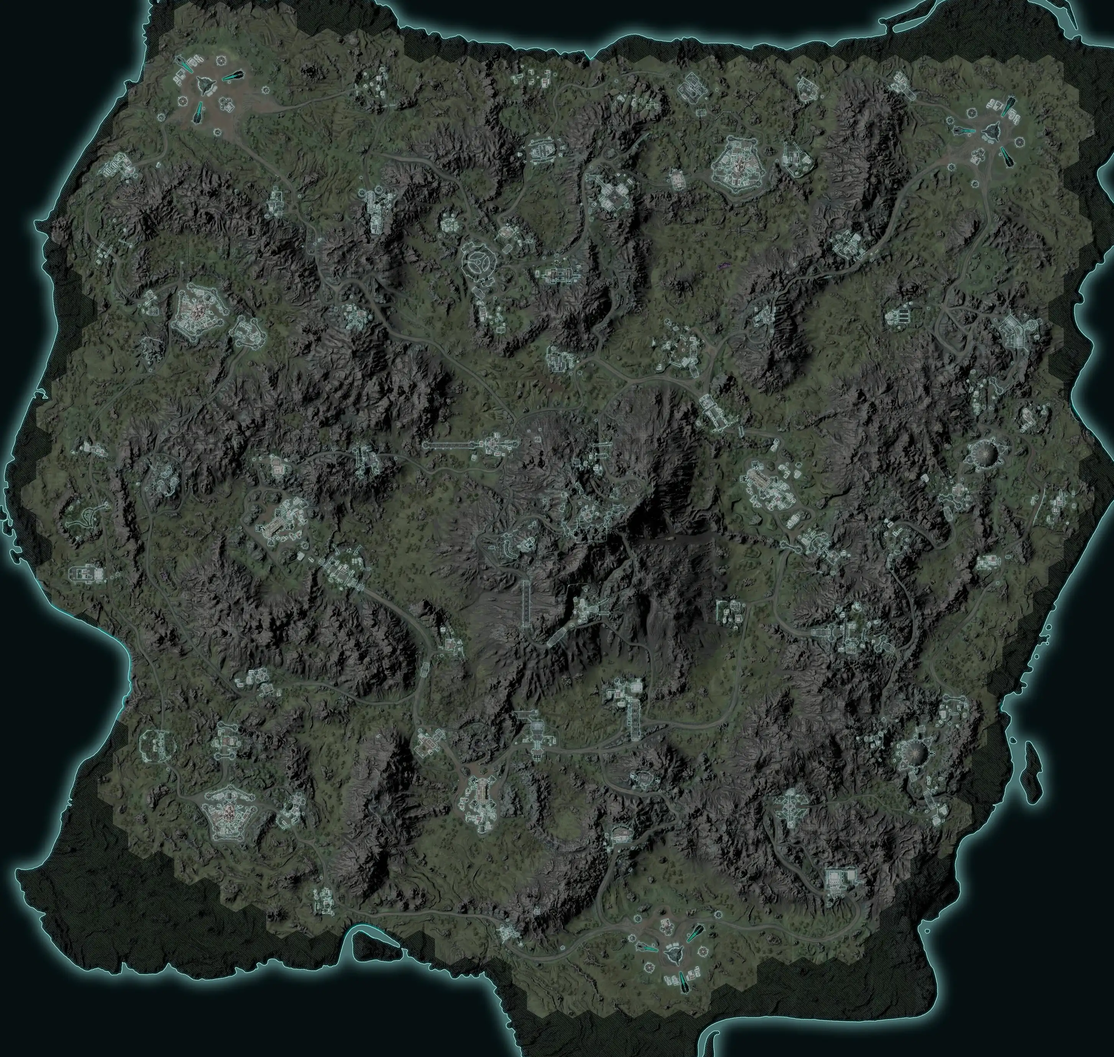
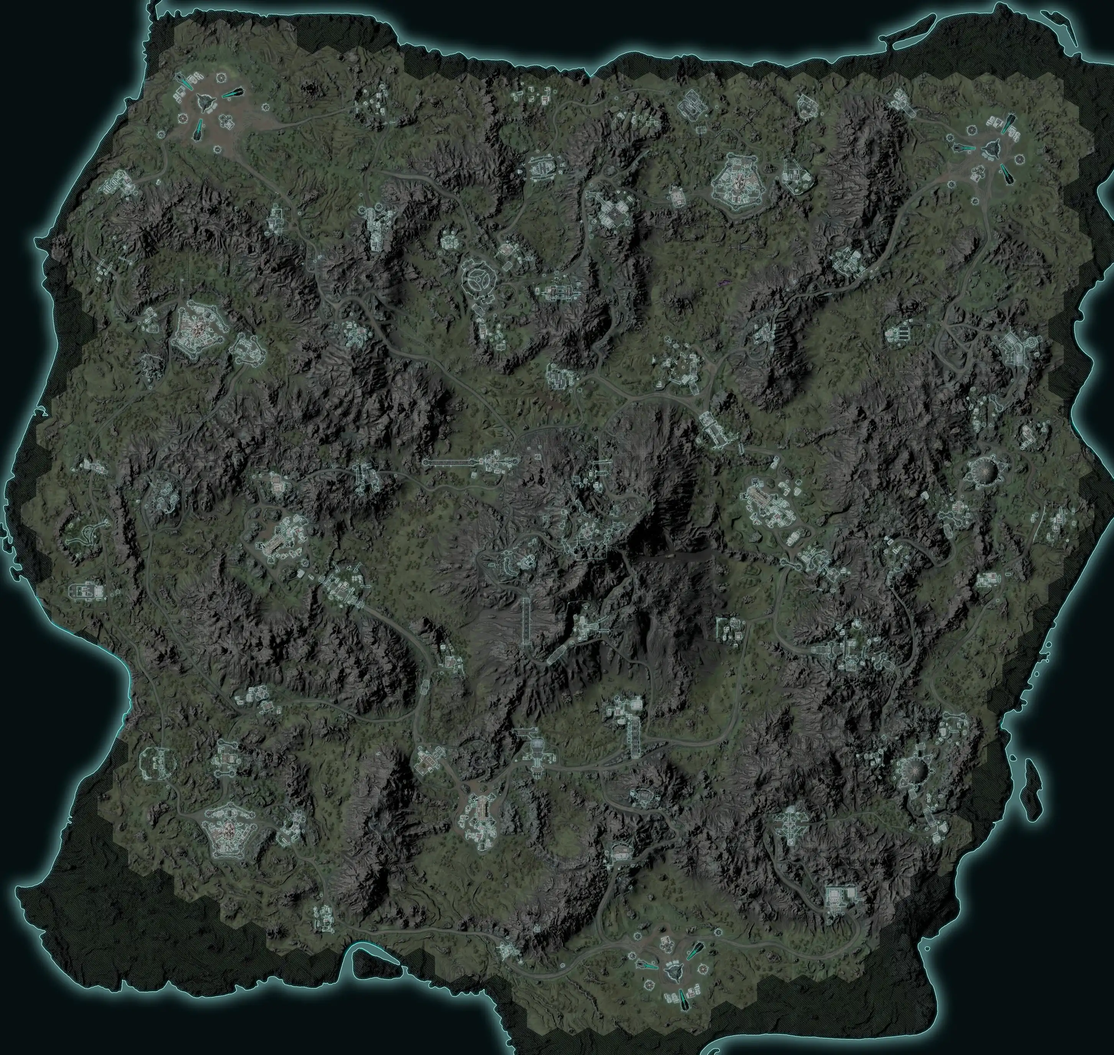
oracle map: move Census-built hexes one radius north so they line up with the wiki terrain (owner 2026-10-28)
Indar, Amerish, Esamir and Oshur hexmaps sat one hex radius (115 m; Oshur 58 m) south of
the game world. Measured against the in-game boundary on the wiki terrain and the bases'
own Census locations; Hossin's replay hexmap already fit. Terrain images re-cropped to the
shifted area, cache tag 20261028-align1.

diff --git a/oracle/js/map.js b/oracle/js/map.js
@@ -11,8 +11,14 @@ export const MAP_IMG_DEFAULT = 0.4;     // terrain image opacity
 export const MAP_COLOR_DEFAULT = 1;     // territory colour opacity
 // zone -> [file in oracle/maps/, [x, y, width, height] in map units]. The wiki images cover the
 // whole world (-4096..4096 on both axes, same orientation as the hexes; checked against the
-// wiki's own base markers); the files are cropped to the hex area at 2.5 m per pixel.
-export const MAPIMG = { 2: ["indar",[-3536,-3360,7072,6720]], 4: ["hossin",[-3920,-3648,7792,7552]], 6: ["amerish",[-3632,-3360,7264,6896]], 8: ["esamir",[-3440,-3008,6784,6368]], 344: ["oshur",[-3776,-3152,7104,6048]] };
+// wiki's own base markers); the files are cropped to the (shifted) hex area at 2.5 m per pixel.
+export const MAPIMG = { 2: ["indar",[-3536,-3472,7072,6720]], 4: ["hossin",[-3920,-3648,7792,7552]], 6: ["amerish",[-3632,-3472,7264,6880]], 8: ["esamir",[-3440,-3120,6784,6368]], 344: ["oshur",[-3776,-3216,7104,6048]] };
+// Hex grid shift in hex radii, per zone (owner 2026-10-28: "BG image is a bit high"). The
+// hexmaps built from Census tiles (build_hexmaps.py) sit one radius south of the real game
+// grid: shifting them up makes their outer edge follow the in-game boundary on the wiki
+// terrain and puts every base's own Census location inside its base (Indar 84 -> 89 of 89,
+// Amerish 78 -> 81 of 81). Hossin's replay hexmap is built differently and already fits.
+export const HEX_SHIFT_R = { 2: -1, 6: -1, 8: -1, 344: -1 };
 const OPA_KEY = { img: "ps2o-map-img", col: "ps2o-map-col" };
 export function mapOpacity(which) {
   const def = which === "img" ? MAP_IMG_DEFAULT : MAP_COLOR_DEFAULT;
@@ -31,21 +37,25 @@ export async function drawMap(a) {
   const links = (await asset(SLUG[a.zone] + "_links.json")) || [];
   const regs = (await asset(SLUG[a.zone] + "_regions.json")) || [];
   const owners = (a.state && a.state.owners) || {};
-  const hx = hm.hexes;
+  const hx0 = hm.hexes;
   // Hex spacing and orientation from the data itself: nearest-neighbour
   // distance d; neighbours straight above/below mean flat-top hexes.
-  const n = Math.min(hx.length, 400);
+  const n = Math.min(hx0.length, 400);
   let d = Infinity;
   for (let i = 0; i < n; i++) for (let j = i + 1; j < n; j++) {
-    const dd = Math.hypot(hx[j][0] - hx[i][0], hx[j][1] - hx[i][1]);
+    const dd = Math.hypot(hx0[j][0] - hx0[i][0], hx0[j][1] - hx0[i][1]);
     if (dd > 1 && dd < d) d = dd;
   }
   let flatTop = false;
   for (let i = 0; i < n && !flatTop; i++) for (let j = i + 1; j < n; j++) {
-    const dx = hx[j][0] - hx[i][0], dy = hx[j][1] - hx[i][1];
+    const dx = hx0[j][0] - hx0[i][0], dy = hx0[j][1] - hx0[i][1];
     if (Math.abs(dx) < 1 && Math.abs(Math.abs(dy) - d) < 1) { flatTop = true; break; }
   }
   const r = d / Math.sqrt(3);
+  // Census hex tiles come out one hex radius too far south (+y) against the game world:
+  // the base locations, the in-game boundary and the wiki terrain all agree on this.
+  const shiftY = (HEX_SHIFT_R[a.zone] || 0) * r;
+  const hx = shiftY ? hx0.map(([x, y, ...rest]) => [x, y + shiftY, ...rest]) : hx0;
   const off = flatTop ? 0 : Math.PI / 6;
   const pts = [...Array(6)].map((_, k) => [r * Math.cos(off + k * Math.PI / 3), r * Math.sin(off + k * Math.PI / 3)]);
   let x0 = Infinity, y0 = Infinity, x1 = -Infinity, y1 = -Infinity;

diff --git a/oracle/index.html b/oracle/index.html
@@ -25,7 +25,7 @@
   } catch (e) {}
 </script>
 <link rel="stylesheet" href="../site-layout.css?v=20261019-graph564" />
-<link rel="stylesheet" href="oracle.css?v=20261027-terrain1" />
+<link rel="stylesheet" href="oracle.css?v=20261028-align1" />
 <style>
   /* Installed-app launch splash (t465u). Android draws its own launch splash first:
      the maskable icon (big medal on black) seen through a 192 px circle, on the
@@ -205,7 +205,7 @@
 </div>
 
 <script type="module" src="js/vote.js?v=20261024-i18n1"></script>
-<script type="module" src="js/main.js?v=20261027-terrain1"></script>
+<script type="module" src="js/main.js?v=20261028-align1"></script>
 <script>
   if ("serviceWorker" in navigator) {
     navigator.serviceWorker.register("../sw.js").catch(function () {});

diff --git a/oracle/js/main.js b/oracle/js/main.js
@@ -1,7 +1,7 @@
 // PS2MapOracle dashboard — split from index.html (#15). No behaviour change.
 import { S, FACS, COLOR, esc, $, stars, mins, bar, pct1, det, info, wide, syncDetails, PHONE_MQ } from "./state.js?v=20261018-scrub2";
 import { get, names } from "./api.js?v=20261018-scrub2";
-import { drawMap, highlightBase, recolorMap } from "./map.js?v=20261027-terrain1";
+import { drawMap, highlightBase, recolorMap } from "./map.js?v=20261028-align1";
 import { chart, chartHover } from "./chart.js?v=20261024-i18n1";
 import { lockCard, lockTick } from "./lock.js?v=20261024-i18n1";
 import { commander, commanderIdle } from "./commander.js?v=20261026-heat1";
